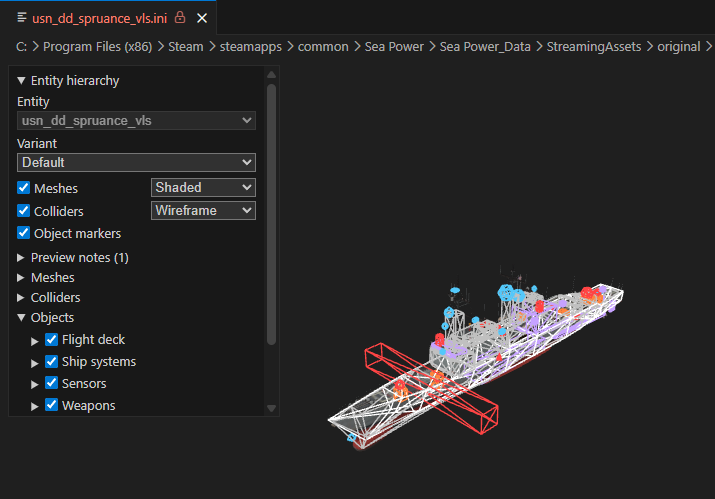
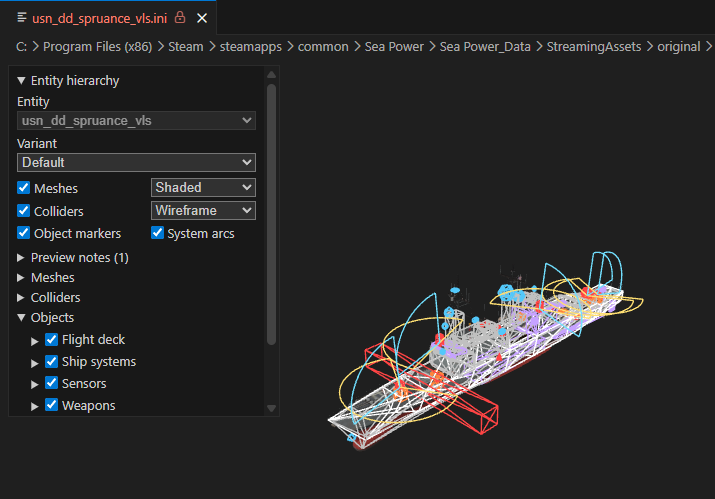
Show the assembled Spruance, default overlays and revised unit card

diff --git a/sp-ini/README.md b/sp-ini/README.md
@@ -70,6 +70,10 @@ Captured in VS Code with the stock Spruance VLS destroyer.
 
 ![Spruance VLS in the FBX viewer](17-fbx-preview.png)
 
+## Spruance VLS in the entity preview
+
+![Spruance VLS in the entity preview](26-entity-preview.png)
+
 ## Mesh tooltip on the assembled Spruance
 
 ![Mesh tooltip on the assembled Spruance](18-entity-mesh-hover.png)
